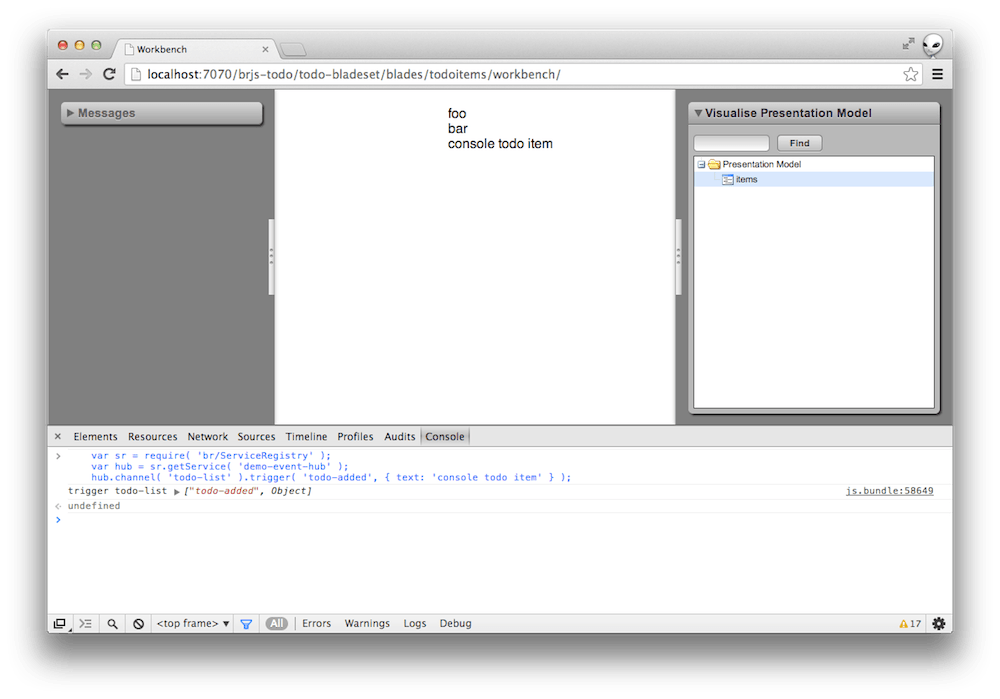
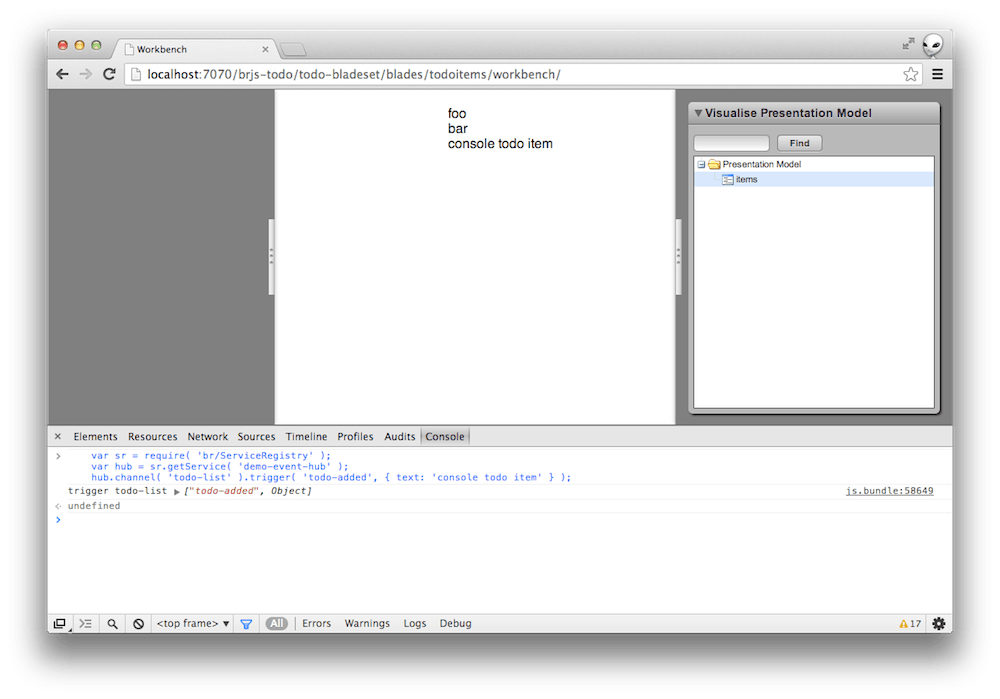
Adding quick-fixes for typo/wording improvements for the Getting Started Guide for @leggeter to review #7 (View the code js file path reference correction) #9/#10 - Updating all getting-started screenshots which had the 'Messages' widget on workbench pages on the left as these have been removed from

Changed region(s): [[0.062, 0.1202, 0.279, 0.1803]]

diff --git a/docs/use/getting_started.md b/docs/use/getting_started.md
@@ -112,7 +112,7 @@ This creates a `todoinput` directory within `unzip_location/apps/brjs-todo/todo-
 
 ### View the Code
 
-Within `apps/todo-bladeset/blades/todoinput/src/bjrstodo/todo/todoinput/src` you'll find an `ExamplePresentationModel.js` file.
+Within `apps/brjs-todo/todo-bladeset/blades/todoinput/src/bjrstodo/todo/todoinput/src` you'll find an `ExamplePresentationModel.js` file.
 
 <div class="alert alert-info github">
   <p>Yeah, this folder structure is crazy! We're working on a <a href="https://github.com/BladeRunnerJS/brjs/issues/19">simplified directory structure</a></p>
@@ -169,7 +169,7 @@ If you click the `Log me` button the `buttonClicked` function is called and `but
 
 ### Add Two-Way Data Binding
 
-Next, let's edit the Blade to display in `<input>` element with a two-way binding between the View and View Model.
+Next, let's edit the Blade to display an `<input>` element with a two-way binding between the View and View Model.
 
 To do this we first need to update `ExamplePresentationModel.js` to handle the fact the view contains an input element. We do this using a `Field` object initialized with an empty string, instead of 'Hello World!'. We can also update the `message` instance variable to be called something more relevant: `todoText`.
 
@@ -203,7 +203,7 @@ Finally, instead of having to click a button we should handle the *Enter/Return*
 
     } )();
 
-We also update `view.html` to contain an `input` element where the element's `value` property is bound to the newly named `todoText` value. We want instant two-way binding so we also need to add `valueUpdate:'afterkeydown'` to the `data-bind` attribute. And we also want to call the newly named `enterPressed` function when a key is pressed in the input to check to see if it's the *Enter/Return*. We do this by adding `event: { keypress: keyPressed }` to the `data-bind` attribute. Finally, update the `class` attribute to indicate the input is a `todo-input`, add a `placeholder` attribute and remove the unused `<button>` element:
+We also update `view.html` to contain an `input` element where the element's `value` property is bound to the newly named `todoText` value. We want instant two-way binding so we also need to add `valueUpdate:'afterkeydown'` to the `data-bind` attribute. And we also want to call the newly named `keyPressed` function when a key is pressed in the input to check to see if it was the *Enter/Return* key. We do this by adding `event: { keypress: keyPressed }` to the `data-bind` attribute. Finally, update the `class` attribute to indicate the input is a `todo-input`, add a `placeholder` attribute and remove the unused `<button>` element:
 
     <div id="brjstodo.todo.todoinput.view-template">
       <div>
@@ -704,7 +704,7 @@ Both the `todoinput` and `todoitems` Blades have the functionality that we're lo
 
 ## Adding the Blades to an Aspect
 
-In order to add the Blades to the default aspect we need to first update the aspect HTML to provide some basic structure. Open up `brjs-todo/default-aspect/index.html` and updated it to look as follows:
+In order to add the Blades to the default aspect we need to first update the aspect HTML to provide some basic structure. Open up `brjs-todo/default-aspect/index.html` and update it to look as follows:
 
     <!DOCTYPE html>
     <html>
